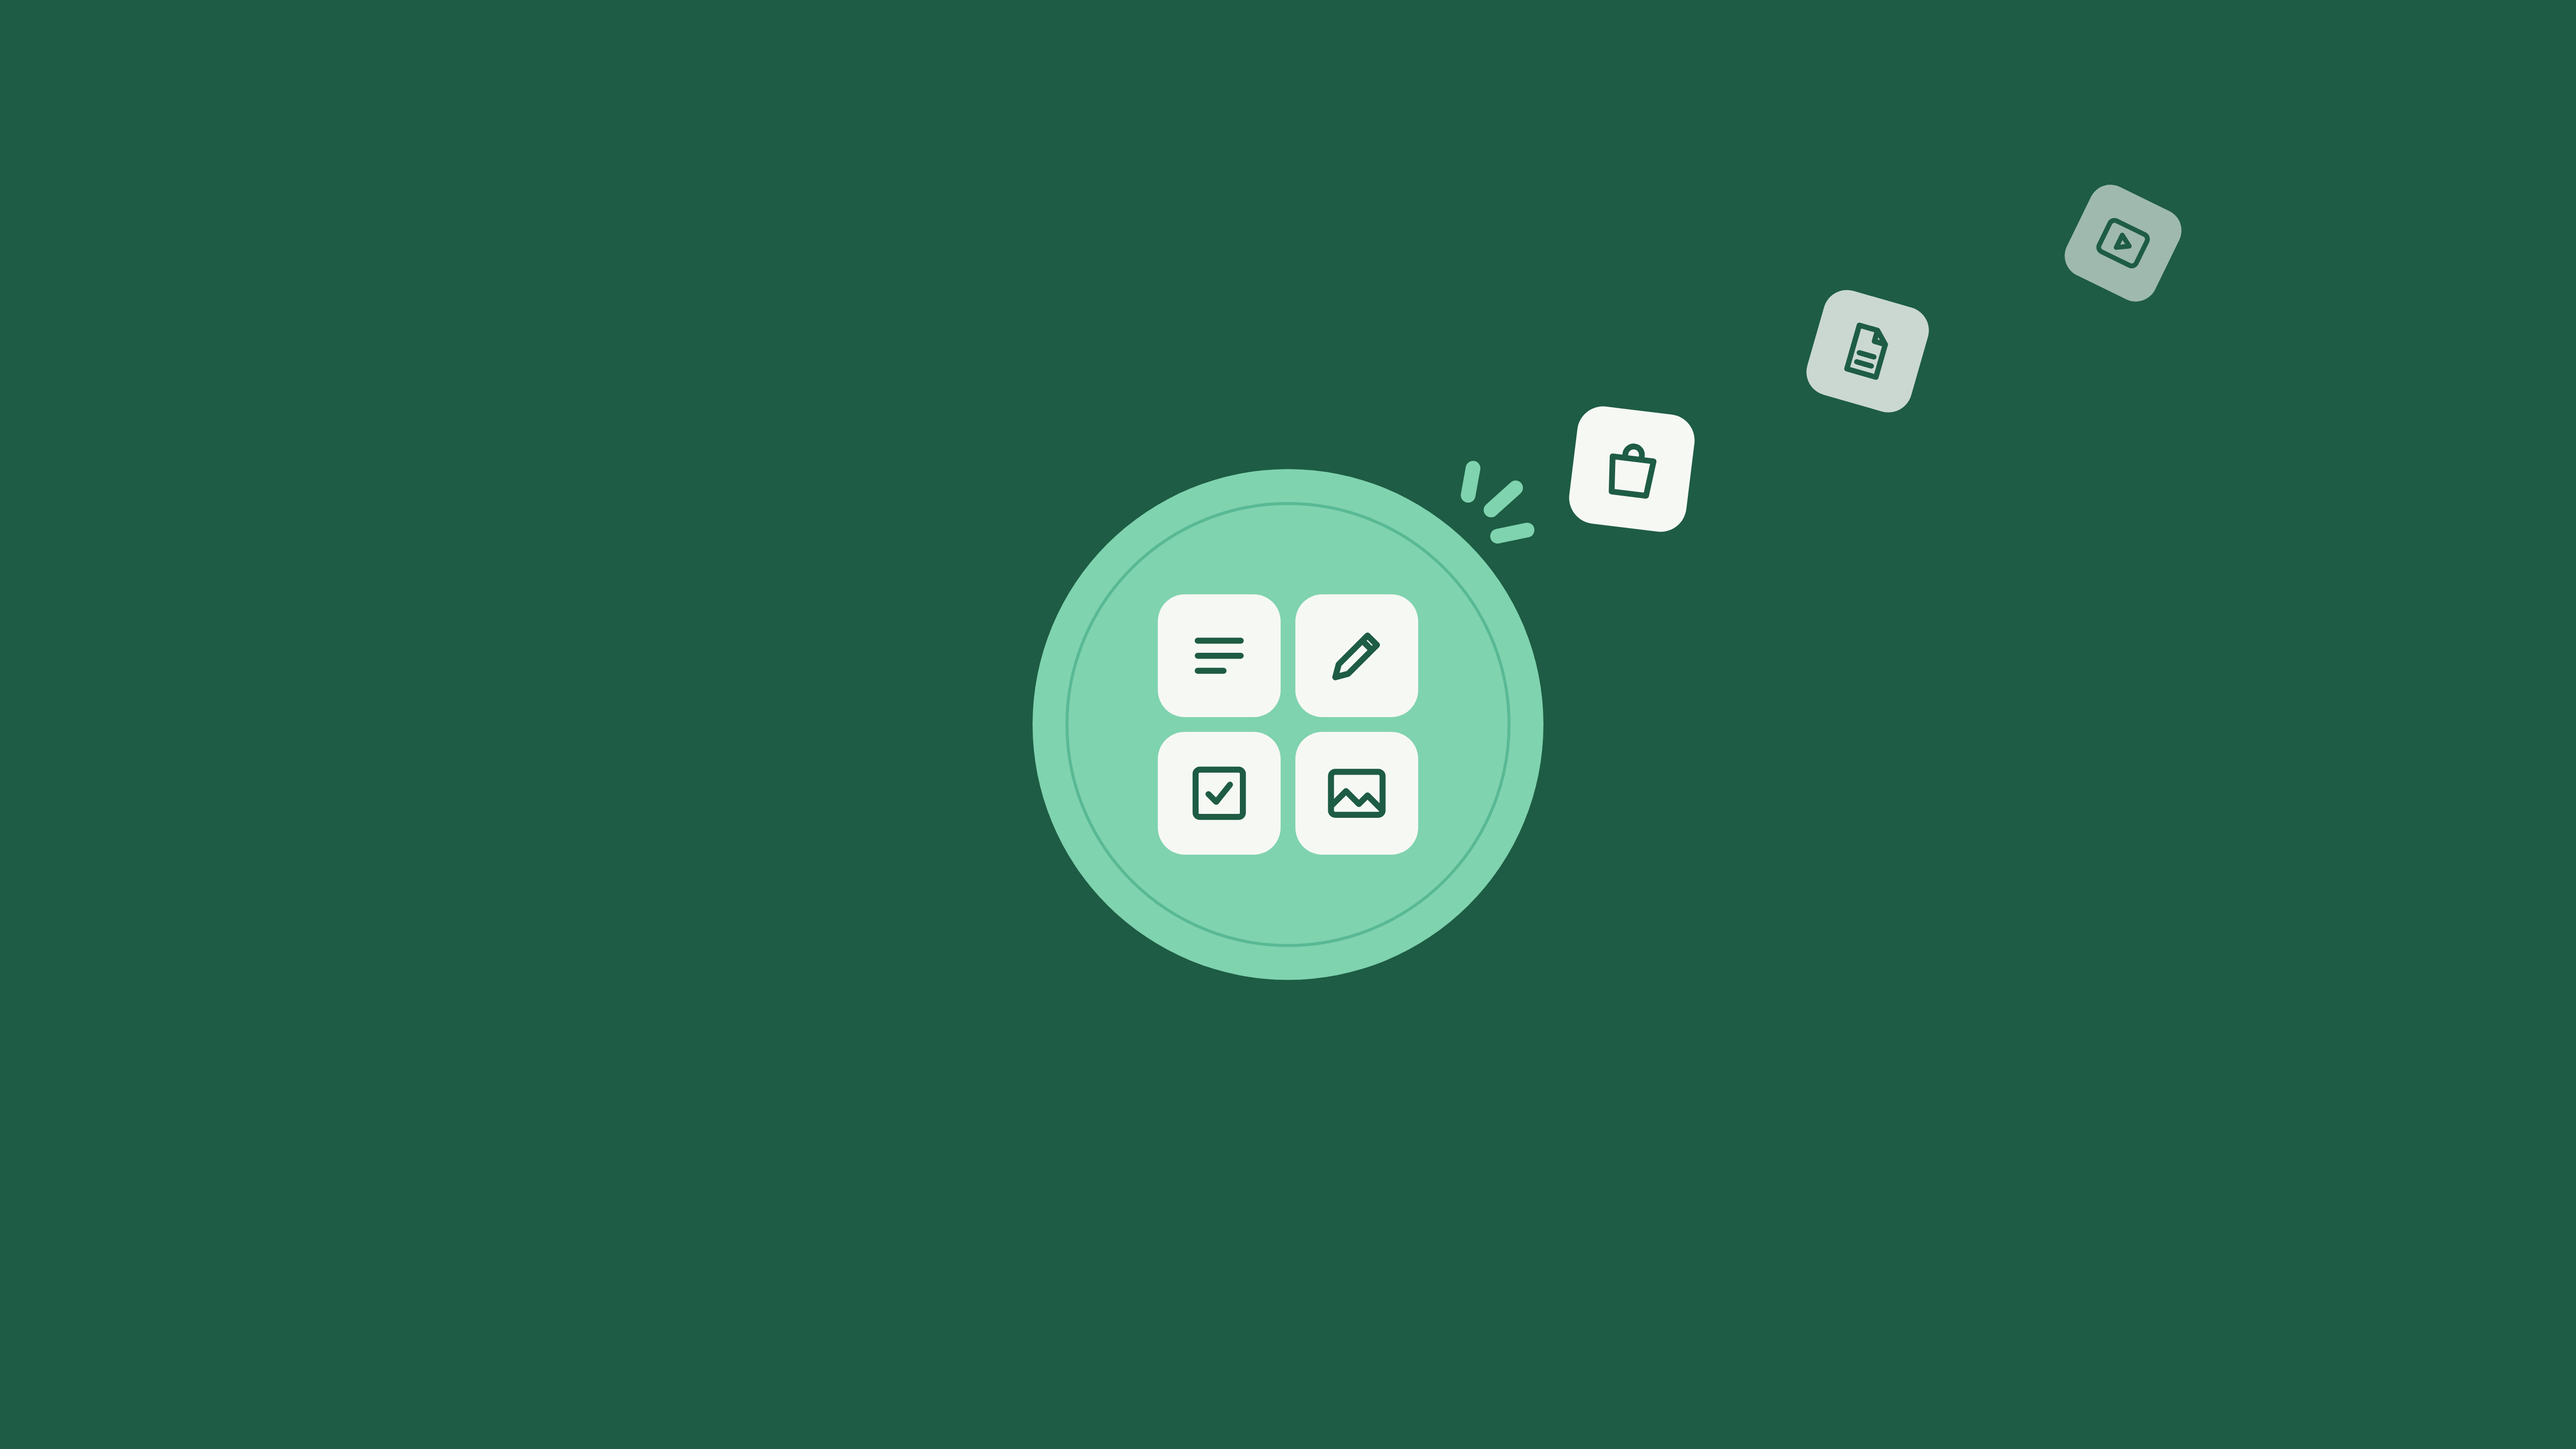
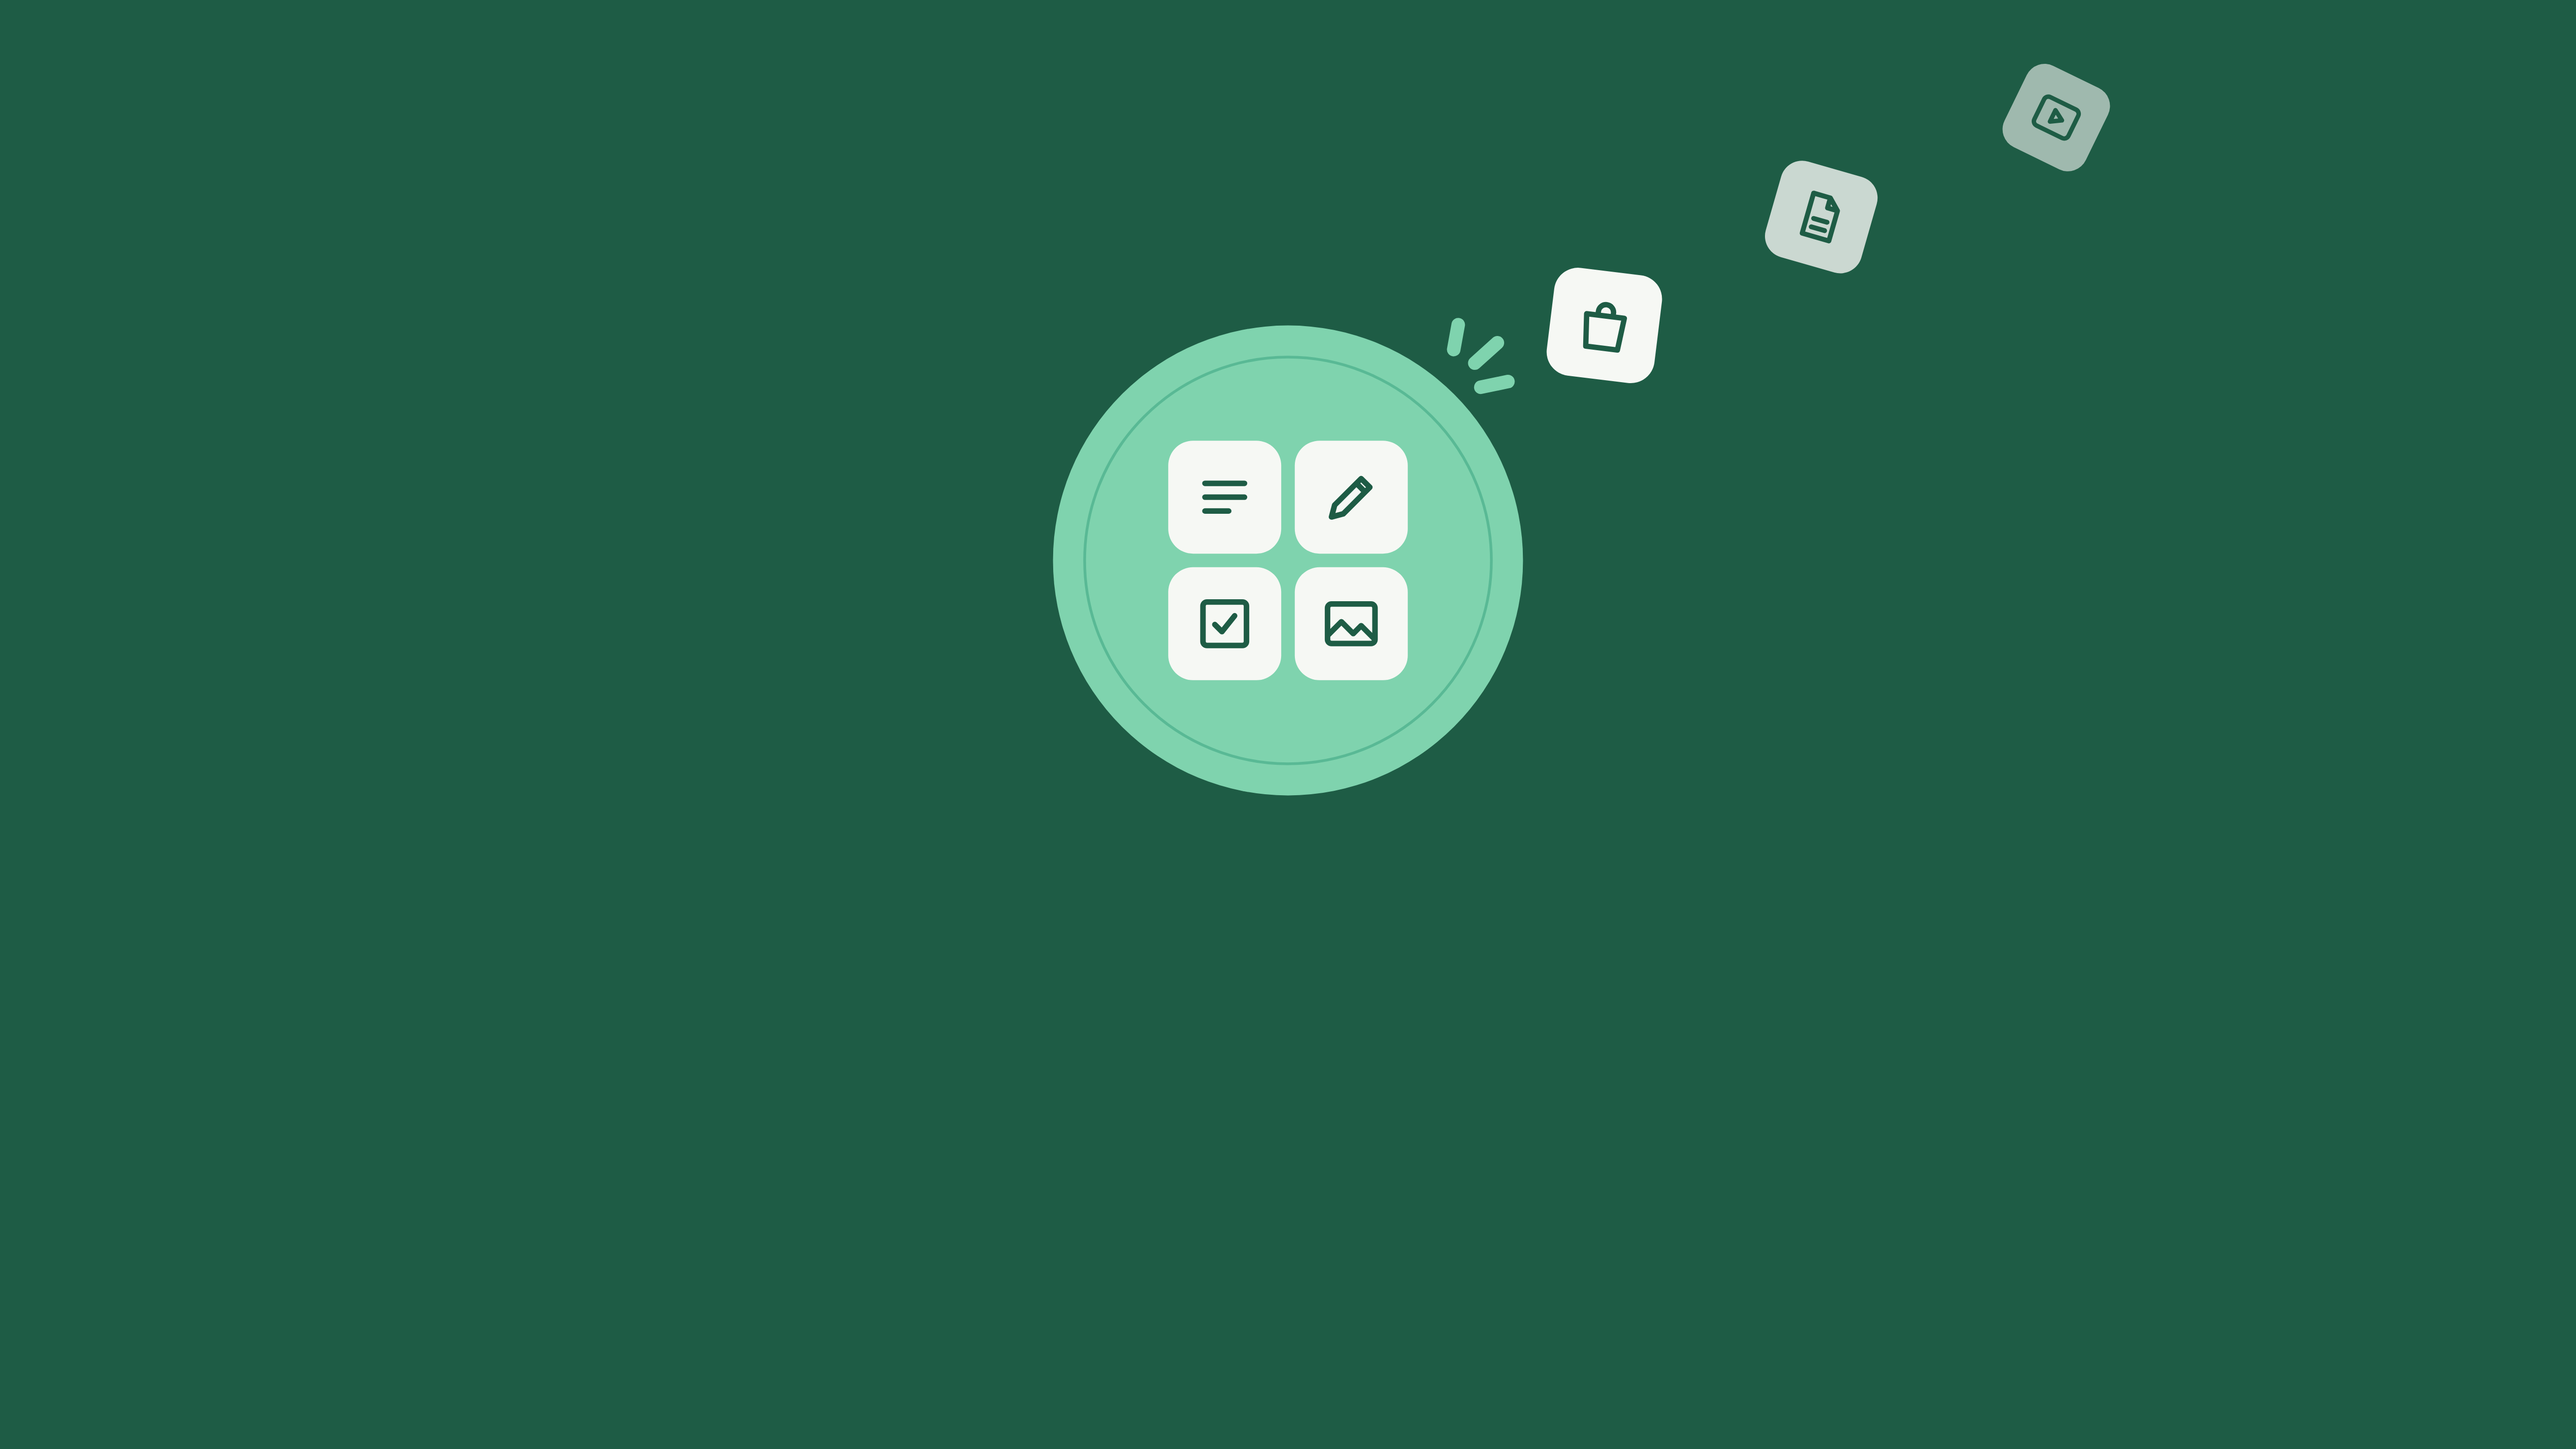
Key art inside Apple's safe area, as placed in App Store Connect (#189)
The universal key art had its circle at the canvas centre, half outside the
art safe area Apple gives for a universal asset (1402 x 962 at 1921, 660), so
a narrow header cut it. The art is now one group, moved up and scaled to 0.92.
It is the product page header and the search results asset in every language.

The nomination's accessibility line no longer promises Dynamic Type up to the
largest sizes: titles stop at 140%.

Claude-Session: https://claude.ai/code/session_01Chg7BD2Sf1yNRFCX24or7B

diff --git a/docs/store/app-store.md b/docs/store/app-store.md
@@ -93,7 +93,7 @@ node scripts/store-iphone.mjs de <dir with that language's 2.png … 5.png>
 
 ## Featuring art
 
-In `featuring/`, as layered SVG and PNG, for when Apple asks after a nomination: `Featuring-KeyArt.png` is the universal key art at 5244 × 2950 (no logo, no words), and also the 16:9 master Apple takes for a product page header or a search result asset. `Featuring-Header.png` is the 4320 × 1080 header. Supporting imagery (4000 × 4000, three to five screens on their own layers) is made when Apple asks, from the real captures.
+In `featuring/`, as layered SVG and PNG, for when Apple asks after a nomination: `Featuring-KeyArt.png` is the universal key art at 5244 × 2950 (no logo, no words), with the circle inside Apple's art safe area for a universal asset (1402 × 962 at 1921, 660). It is also the product page header and the search results asset in App Store Connect, the same file in every language. `Featuring-Header.png` is the 4320 × 1080 header. Supporting imagery (4000 × 4000, three to five screens on their own layers) is made when Apple asks, from the real captures.
 
 The listing text in `<lang>.json` is what is live in App Store Connect; change it there first, then here.
 
@@ -105,7 +105,7 @@ App Store Connect, Pluck, Featuring, Nominations, Create Nomination. Send it at 
 - **Type:** App Launch
 - **Description:** Pluck is a read-it-later app for everything, not just articles: a recipe from TikTok, a longread, a travel PDF, a lamp to buy, a note to self. You pluck it from the share sheet in one tap and the app never opens. Later, you sort it by hand, or ask the AI tool you already use, because Pluck has no AI inside. It connects to Claude, ChatGPT, Cursor and others over MCP, an open standard, and that AI can never delete anything. Things you leave alone move to the Archive after 30 days. Nothing is deleted. Pluck is free and open source, so it can't vanish the way Pocket and Omnivore did.
 - **What is unique:** A fresh take on a familiar category. Read-it-later apps either nag you or quietly delete things. Pluck does neither: untouched items go to an Archive you can search, and the share sheet saves in place without opening the app. There's no AI in the app. People bring their own AI, and every change it makes is marked and can be undone in one tap. The whole app is open source, and anyone can run their own server.
-- **Accessibility:** Dynamic Type up to the largest sizes, checked in the Simulator: rows grow and nothing clips. VoiceOver labels on the controls and the kind glyphs. Light and dark mode throughout. Animations respect Reduce Motion.
+- **Accessibility:** Text grows with Dynamic Type; titles stop at 140%. VoiceOver labels on the controls and the kind glyphs. Light and dark mode throughout. Animations respect Reduce Motion.
 - **Localization:** English, German, French, Spanish, Italian, Dutch, Portuguese (Brazil), Japanese, Korean and Simplified Chinese at launch.
 - **About the team:** Made in Ireland by Codú, a coding community of about 10,000 developers. Built in the open.
 - **Supplemental URLs:** [TESTFLIGHT PUBLIC LINK], https://getpluck.io, https://getpluck.io/connect, https://getpluck.io/open-source, https://github.com/codu-code/pluck.
